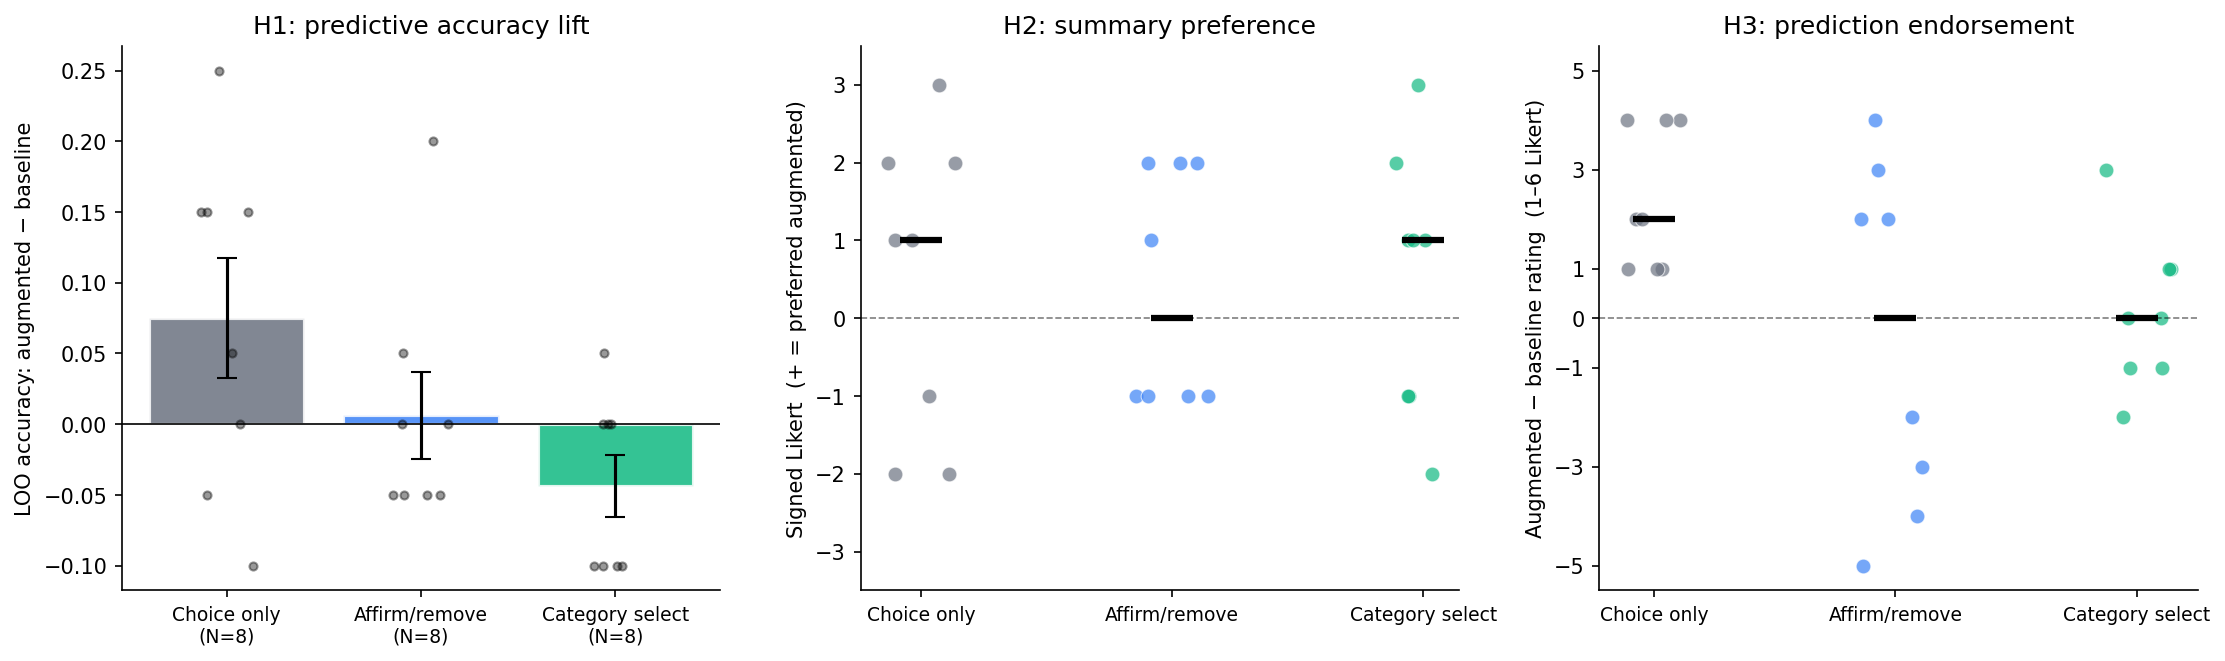
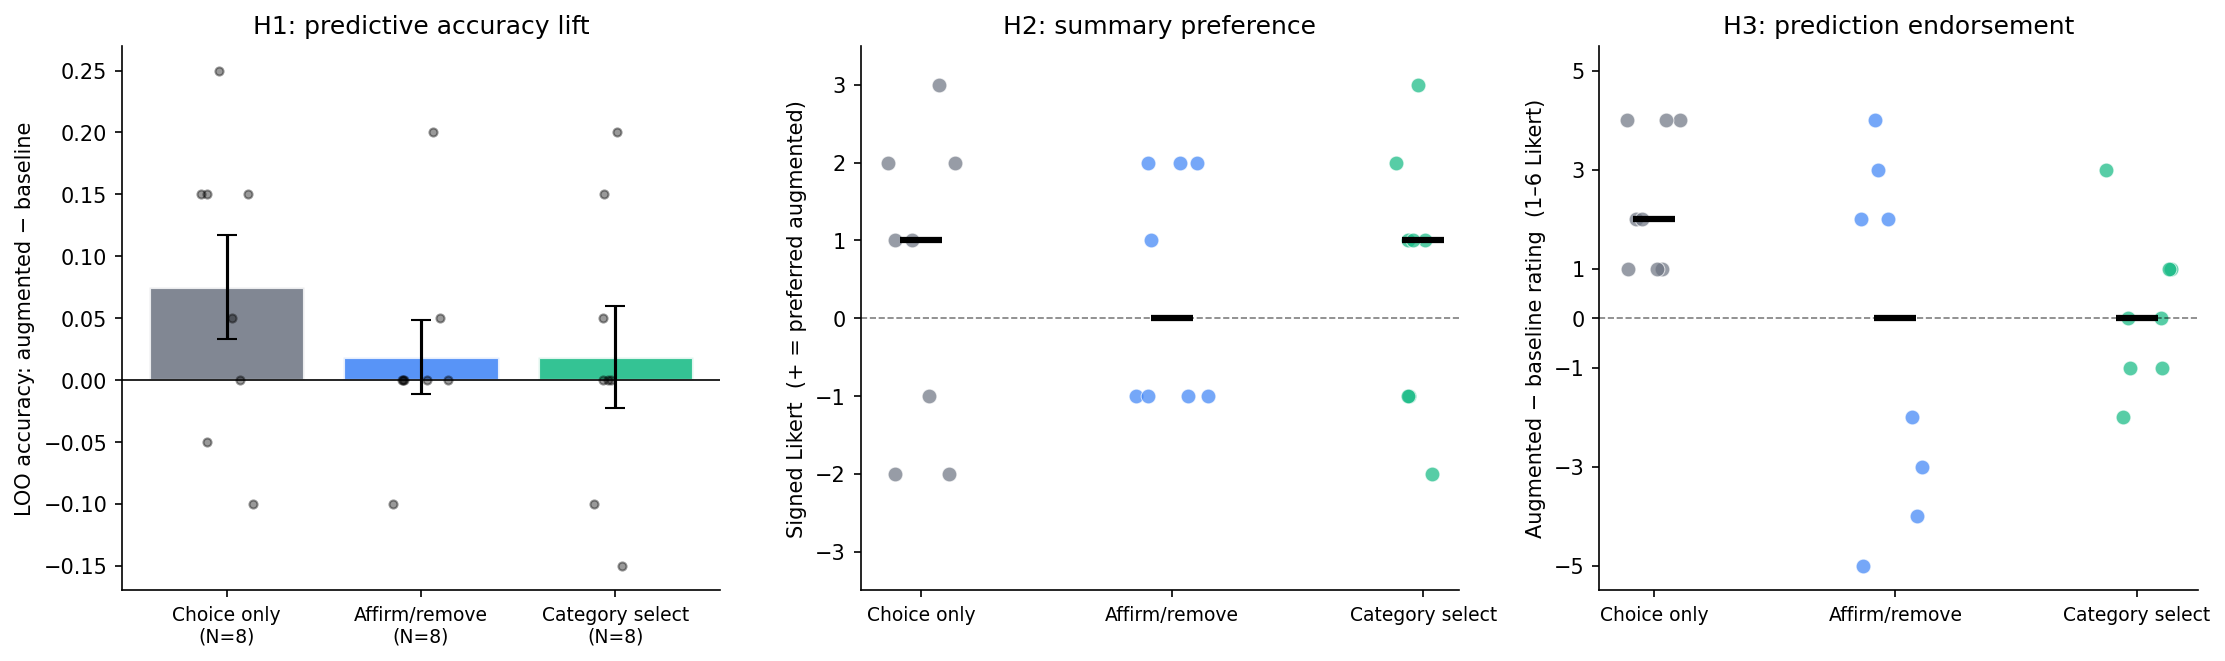
updated interface

diff --git a/web-interface/index.html b/web-interface/index.html
@@ -789,6 +789,23 @@ function fitBTL(U,y,lam,betaPrior,muPrior,maxIter){
   }
   return beta;
 }
+
+// Rescale a feedback-derived prior to match the data-only fit's β magnitude.
+// Without this, betaPrior lives on raw_projection (delta) scale (~0.1) while
+// β lives on BTL-logit scale (~10), and mu_prior=2 effectively shrinks β to
+// ~0. After rescaling, the prior is a unit vector in β-space pointing in the
+// feedback direction, with magnitude inherited from the data fit. Then
+// mu_prior parameterizes "trust in feedback direction" cleanly.
+// See experiments/dilemmas/diagnose_scale.py for the diagnostic.
+function rescalePriorToBetaScale(bpRaw,betaData){
+  if(!Array.isArray(bpRaw)||!Array.isArray(betaData))return bpRaw;
+  var rawSq=0;for(var i=0;i<bpRaw.length;i++)rawSq+=bpRaw[i]*bpRaw[i];
+  var rawNorm=Math.sqrt(rawSq);
+  if(rawNorm<1e-12)return bpRaw.slice();
+  var dataSq=0;for(var j=0;j<betaData.length;j++)dataSq+=betaData[j]*betaData[j];
+  var s=Math.sqrt(dataSq)/rawNorm;
+  return bpRaw.map(function(v){return s*v;});
+}
 // Compute per-dim bin midpoints from raw_projection values in trialProjections.
 // These are delta-level projections (same scale as U_tk), NOT the slider values.
 // Returns {dimension_id: [m0, m1, ..., m_{nCats-1}]} for each dimension.
@@ -997,7 +1014,13 @@ function startEvaluation(){
     }
   }else{
     if(inputs.hasPrior){
-      betaAlpha=fitBTL(inputs.U,inputs.y,lamP,inputs.betaPrior,muPrior,15);
+      // Rescale the feedback-derived prior to match betaProj's magnitude
+      // before fitting. Without this, the prior lives on raw_projection scale
+      // (~0.1) while β lives on BTL-logit scale (~10), so muPrior acts as
+      // near-zero shrinkage. After rescaling, the prior is a unit vector in
+      // β-space pointing in the feedback direction.
+      var bpRescaled=rescalePriorToBetaScale(inputs.betaPrior,betaProj);
+      betaAlpha=fitBTL(inputs.U,inputs.y,lamP,bpRescaled,muPrior,15);
     }
   }
   var fitMs=Math.round(performance.now()-t0);
